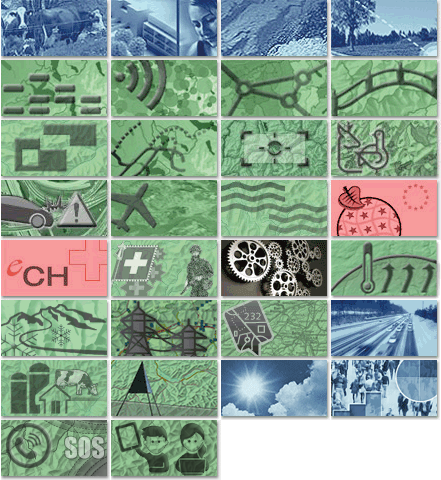
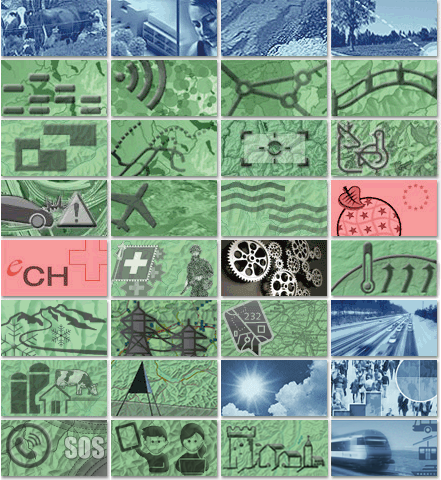
Added images for topics BAV and ISOS
Updated the assets so that the topics BAV and ISOS now both also show
the correct image.

Changed region(s): [[0.5011, 0.875, 1.0, 1.0]]

diff --git a/src/modules/menu/scss/topics-image.scss b/src/modules/menu/scss/topics-image.scss
@@ -22,6 +22,7 @@ $topics: (
   (key: dev,           position: -220px -240px),
   (key: cadastre,      position: -220px -300px),
   (key: meteoschweiz,  position: -220px -360px),
+  (key: isos,          position: -220px -420px),
   (key: swisstopo,     position: -330px 0),
   (key: ivs,           position: -330px -60px),
   (key: wildruhezonen, position: -330px -120px),
@@ -29,6 +30,7 @@ $topics: (
   (key: geothermie,    position: -330px -240px),
   (key: astra,         position: -330px -300px),
   (key: bfs,           position: -330px -360px),
+  (key: bav,           position: -330px -420px),
 );
 
 .topics-sprite {
